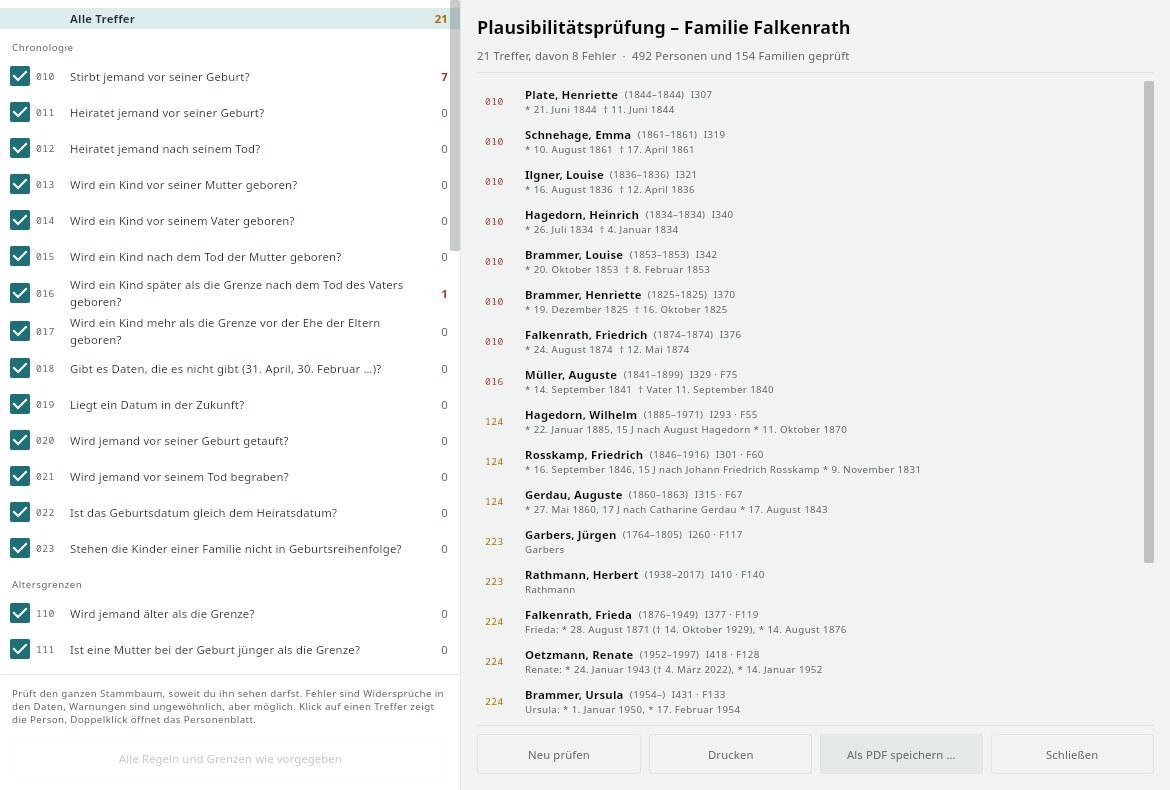
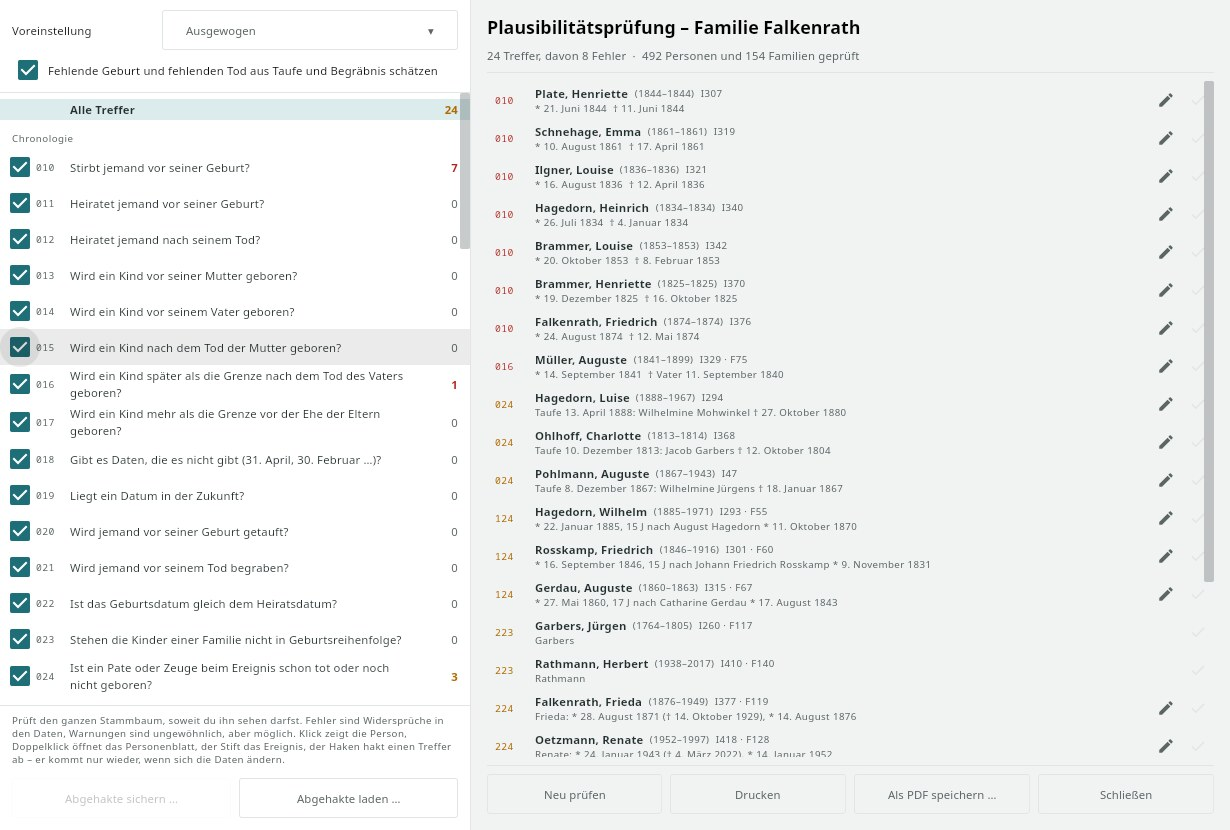
wtAnd 1.23 (versionCode 25), wtWin/wtTux 1.23: README zur erweiterten Plausibilitaetspruefung

diff --git a/README.md b/README.md
@@ -34,8 +34,8 @@
 | **Ahnenkreis** – sieben Generationen, die vier Großeltern-Linien in Farbe, Ahnenschwund als „= 74“ | **Fächertafel** – der Halbkreis, hier sechs Generationen |
 
 <p align="center">
-  <img src="docs/screenshots/desktop-pruefung.jpg" alt="wtTux: Fenster Plausibilitätsprüfung mit 21 Treffern im Demo-Stammbaum" width="100%">
-  <br><b>Plausibilitätsprüfung</b> (ab 1.22) – 47 Regeln prüfen den ganzen Stammbaum: Tod vor Geburt, Mutter zu jung, Kind nach dem Tod des Vaters, Ehe unter Geschwistern, eigener Vorfahr … Grenzen einstellbar, Klick öffnet die Person, Drucken und PDF.
+  <img src="docs/screenshots/desktop-pruefung.jpg" alt="wtTux: Fenster Plausibilitätsprüfung mit Voreinstellung und Treffern im Demo-Stammbaum" width="100%">
+  <br><b>Plausibilitätsprüfung</b> (ab 1.22, erweitert in 1.23) – 61 Regeln prüfen den ganzen Stammbaum: Tod vor Geburt, Mutter zu jung, Pate schon gestorben, mögliche Dubletten, Ortsvarianten, eigener Vorfahr … Voreinstellungen von streng bis großzügig, Grenzen einstellbar; geprüfte Treffer abhaken, das Ereignis direkt aus dem Treffer bearbeiten, Drucken und PDF.
 </p>
 
 <p align="center"><sub>Tafeln, Prüfung und wtTux-Navigator: frei erfundener Demo-Stammbaum <a href="demo-tree/">Familie Falkenrath</a> (CC0), Fotos unbekannter Personen aus dem Rijksmuseum Amsterdam (CC0). wtWin-Navigator und Personenblatt: historischer Stammbaum der Medici; Porträt Caterina Sforza: <a href="https://commons.wikimedia.org/wiki/File:Italia,_caterina_riario_di_forl%C3%AC,_riproduzione_della_medaglia_del_1488_ca..JPG">Sailko</a>, <a href="https://creativecommons.org/licenses/by-sa/3.0/">CC BY-SA 3.0</a>, alle anderen gemeinfrei (Wikimedia Commons).</sub></p>

diff --git a/README.en.md b/README.en.md
@@ -34,8 +34,8 @@
 | **Ancestor circle** – seven generations, the four grandparent lines in colour, pedigree collapse as “= 74” | **Fan chart** – the half circle, here six generations |
 
 <p align="center">
-  <img src="docs/screenshots/desktop-pruefung.jpg" alt="wtTux: plausibility check window with 21 findings in the demo tree" width="100%">
-  <br><b>Plausibility check</b> (from 1.22) – 47 rules check the whole tree: death before birth, mother too young, child after the father's death, siblings married, own ancestor … limits adjustable, a click opens the person, print and PDF.
+  <img src="docs/screenshots/desktop-pruefung.jpg" alt="wtTux: plausibility check window with preset and findings in the demo tree" width="100%">
+  <br><b>Plausibility check</b> (from 1.22, extended in 1.23) – 61 rules check the whole tree: death before birth, mother too young, godparent already dead, possible duplicates, place variants, own ancestor … presets from strict to lenient, adjustable limits; tick off checked findings, edit the event straight from the finding, print and PDF.
 </p>
 
 <p align="center"><sub>Charts, plausibility check and wtTux navigator: fictitious demo tree <a href="demo-tree/">Familie Falkenrath</a> (CC0), photos of unknown people from the Rijksmuseum Amsterdam (CC0). wtWin navigator and person sheet: historical tree of the Medici; portrait of Caterina Sforza: <a href="https://commons.wikimedia.org/wiki/File:Italia,_caterina_riario_di_forl%C3%AC,_riproduzione_della_medaglia_del_1488_ca..JPG">Sailko</a>, <a href="https://creativecommons.org/licenses/by-sa/3.0/">CC BY-SA 3.0</a>, all others public domain (Wikimedia Commons).</sub></p>
